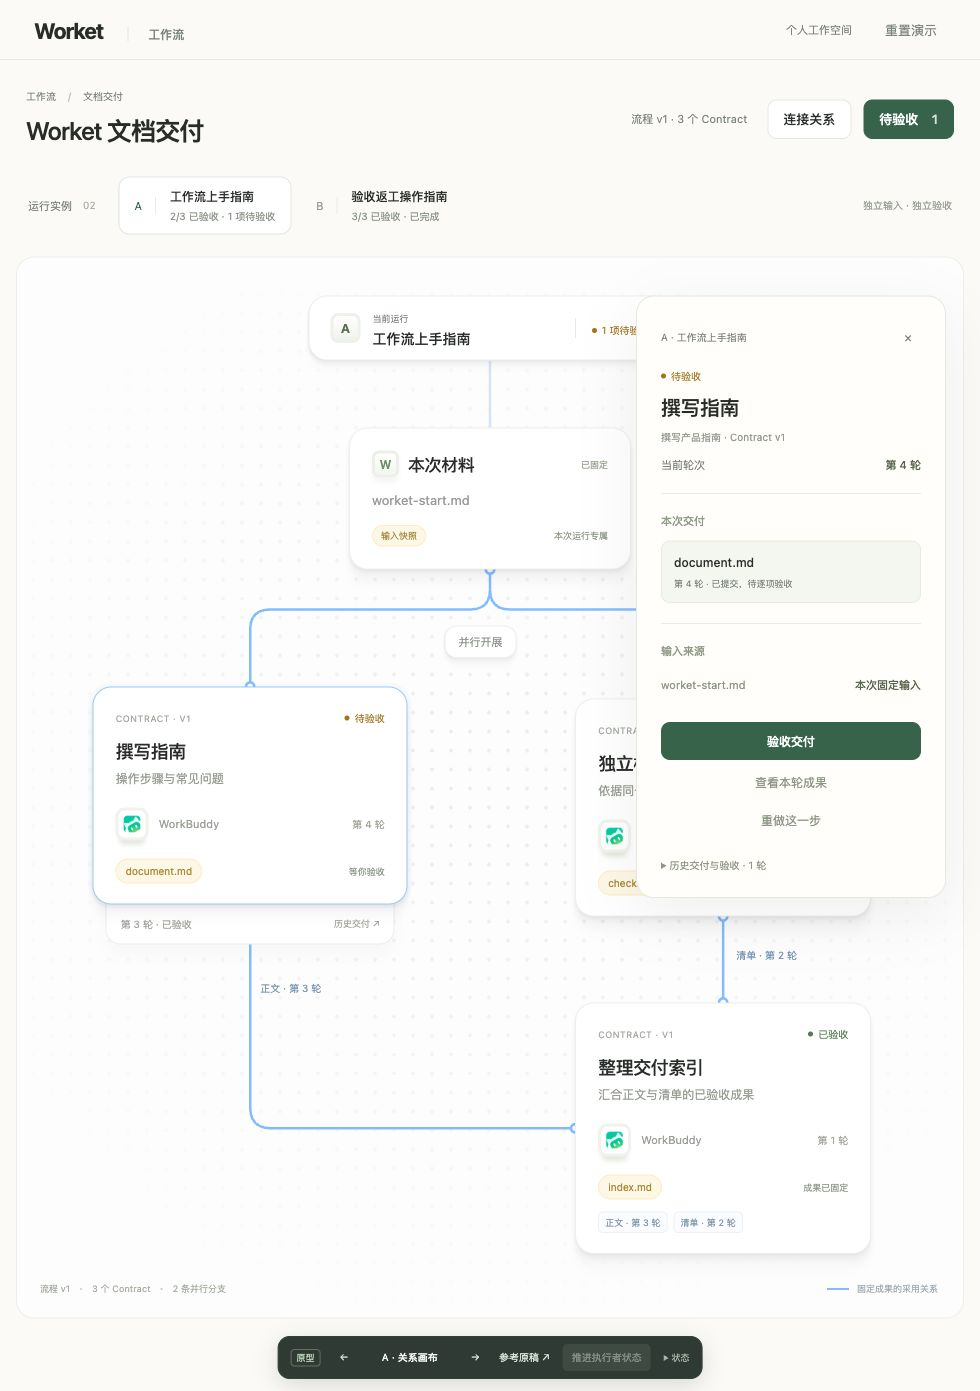
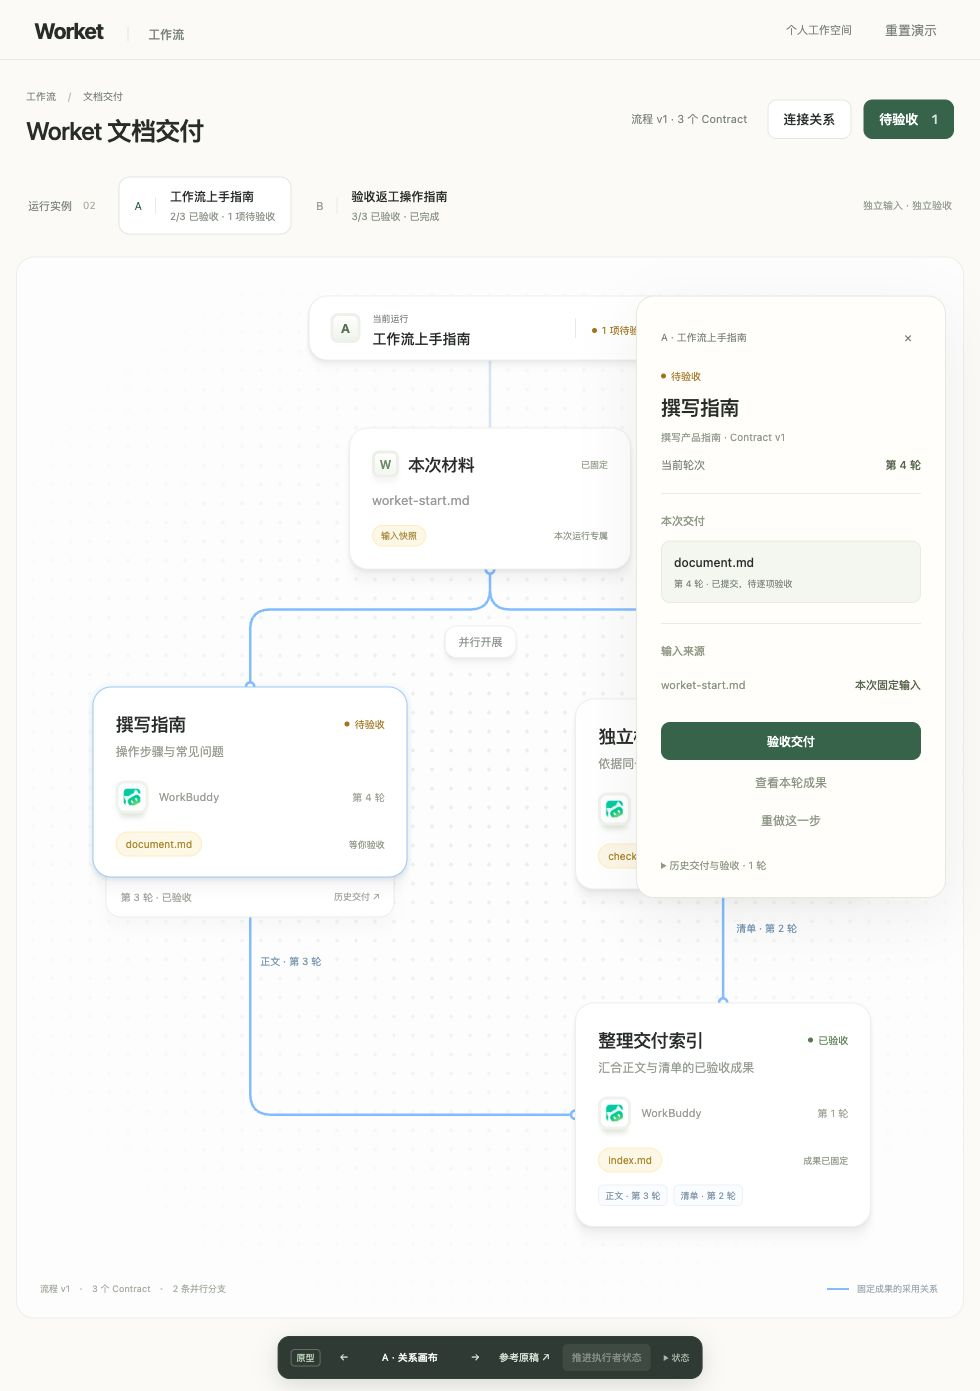
简化工作流卡片标题并将状态移至同一行

diff --git a/research/prototypes/workflow-project-flow/prototype.js b/research/prototypes/workflow-project-flow/prototype.js
@@ -27,8 +27,8 @@ function nodeMarkup(key, n) {
  const previous = n.history.at(-1);
  return `<article class="flow-node ${r.selected === key ? 'selected' : ''}" id="node-${key}" data-kind="${key}">
   <div class="node-face"><button class="node-select" data-node="${key}" aria-pressed="${r.selected === key}" aria-label="${nodeNames[key]}，第 ${n.generation} 轮，${label[n.phase]}">
-   <div class="node-top"><span class="contract-label">CONTRACT · V1</span>${status(n.phase)}</div>
-   <h3>${nodeNames[key]}</h3><p class="node-description">${desc}</p>
+   <div class="node-heading"><h3>${nodeNames[key]}</h3>${status(n.phase)}</div>
+   <p class="node-description">${desc}</p>
    <div class="executor"><span class="app-tile"><img src="/workbuddy.png" alt=""></span><span>WorkBuddy</span><span class="round">第 ${n.generation} 轮</span></div>
    <div class="node-file"><span class="file-chip">${fileNames[key]}</span><span>${n.phase === 'READY' ? '待生成' : n.phase === 'ACCEPTED' ? '成果已固定' : n.phase === 'SUBMITTED' ? '等你验收' : '处理中'}</span></div>
    ${adoption ? `<div class="node-adoption">${adoption}</div>` : ''}

diff --git a/research/prototypes/workflow-project-flow/prototype.css b/research/prototypes/workflow-project-flow/prototype.css
@@ -88,8 +88,9 @@ h1 { font-size: 25px; font-weight: 550; letter-spacing: -.7px; margin-top: 8px; 
 .node-select { display: block; text-align: left; width: 100%; padding: 0; }
 .flow-node:hover .node-face { border-color: #c6d8e8; }
 .flow-node.selected .node-face { border-color: #9ec8f5; box-shadow: 0 0 0 4px #82bcff0d, var(--shadow-md); }
-.node-top { display: flex; align-items: center; justify-content: space-between; gap: 9px; margin-bottom: 12px; }
-.contract-label { color: #a4aaa0; font-size: 9px; letter-spacing: .05em; }
+.node-heading { display: flex; align-items: center; justify-content: space-between; gap: 10px; }
+.node-heading h3 { min-width: 0; }
+.node-heading .status { flex-shrink: 0; }
 .flow-node h3 { font-size: 18px; font-weight: 500; letter-spacing: -.5px; line-height: 1.5; }
 .node-description { color: #989e94; font-size: 12px; margin-top: 5px; }
 .executor { display: flex; align-items: center; gap: 10px; margin-top: 20px; color: #9a9f98; font-size: 11px; }

diff --git a/docs/product.md b/docs/product.md
@@ -10,7 +10,7 @@
 
 用户明确否定当前工作流 UI，要求后续重新设计；现有工作流的布局、导航和节点卡片不作为设计系统基线。下节记录的工作流业务能力不等于其界面已获用户认可。
 
-工作流方向（2026-10-22 更新）：按用户提供的 Project Flow 重建材料重做 [工作流方向稿](design/workflow-project-flow.md)，用悬浮白卡、柔和阴影、点阵和圆角连线表达真实采用关系；比较顶部运行切换加浮动详情的关系画布，与侧边运行列表加常驻详情的验收工作台。原型点通实例切换、集中待验收、返工与显式采用新版；仅为内存演示。原稿只供本机对照，未进入客户端或分发包；布局、宽工作台入口和窄窗口仍待评审，不回写为全局基础规范。
+工作流方向（2026-10-22 更新）：按用户提供的 Project Flow 重建材料重做 [工作流方向稿](design/workflow-project-flow.md)，用悬浮白卡、柔和阴影、点阵和圆角连线表达真实采用关系；比较顶部运行切换加浮动详情的关系画布，与侧边运行列表加常驻详情的验收工作台。按用户反馈移除卡面 CONTRACT · V1 标签，标题与状态同一行，Contract 版本保留在详情。原型点通实例切换、集中待验收、返工与显式采用新版；仅为内存演示。原稿只供本机对照，未进入客户端或分发包；布局、宽工作台入口和窄窗口仍待评审，不回写为全局基础规范。
 
 ## 工作流组合与独立运行（2026-10-21）
 

diff --git a/research/prototypes/workflow-project-flow/README.md b/research/prototypes/workflow-project-flow/README.md
@@ -18,7 +18,7 @@ node research/prototypes/workflow-project-flow/serve.mjs
 
 上一版是概括风格的细卡片图。本轮依据具体重建材料重排为悬浮白卡、19px 点阵、18.8px 圆角、多层阴影、浅蓝圆角折线、圆形端口、暖色成果徽标及有层次的执行者图标。参考参数与产品映射见 [方向说明](../../../docs/design/workflow-project-flow.md)。
 
-A 取消常驻侧栏，优先呈现整张关系图；B 保留较紧凑的工作区供反复验收。正文历史层叠对应实际演示轮次，不用虚构人员头像暗示多人执行；连线上直接标注索引实际采用的轮次。
+A 取消常驻侧栏，优先呈现整张关系图；B 保留较紧凑的工作区供反复验收。卡面移除 CONTRACT · V1 标签，标题与状态同排；固定 Contract 版本保留在详情。正文历史层叠对应实际演示轮次，不用虚构人员头像暗示多人执行；连线上直接标注索引实际采用的轮次。
 
 ## 可检查的交互
 

diff --git a/docs/design/workflow-project-flow.md b/docs/design/workflow-project-flow.md
@@ -25,7 +25,7 @@
 | --- | --- | --- |
 | 顶部运行条 | 整套流程的一次独立运行 | 切换运行不复用其状态、资料或选中节点 |
 | 本次材料卡 | 本次固定输入 | 身份和快照固定，不随源文件静默替换 |
-| Contract 卡 | 固定 Contract 版本及当前轮工作 | Contract v1 与工作第 4 轮分别呈现 |
+| Contract 卡 | 使用固定版本的 Contract 开展的当前轮工作 | 标题与状态同一行，卡面移除 CONTRACT · V1 标签；固定 Contract 版本在节点详情查看，与工作轮次分别呈现 |
 | 成果徽标与历史层叠 | 本轮交付及旧轮次 | 待验收、已验收和历史分别表达；历史可查看 |
 | 四条依赖线 | 材料/上游成果到下游输入的映射 | 正文与清单并行；索引采用两者明确的已验收轮次 |
 | 连接与采用详情 | 来源端口及实际采用版本 | 新版验收不静默替换已开展的下游输入 |
